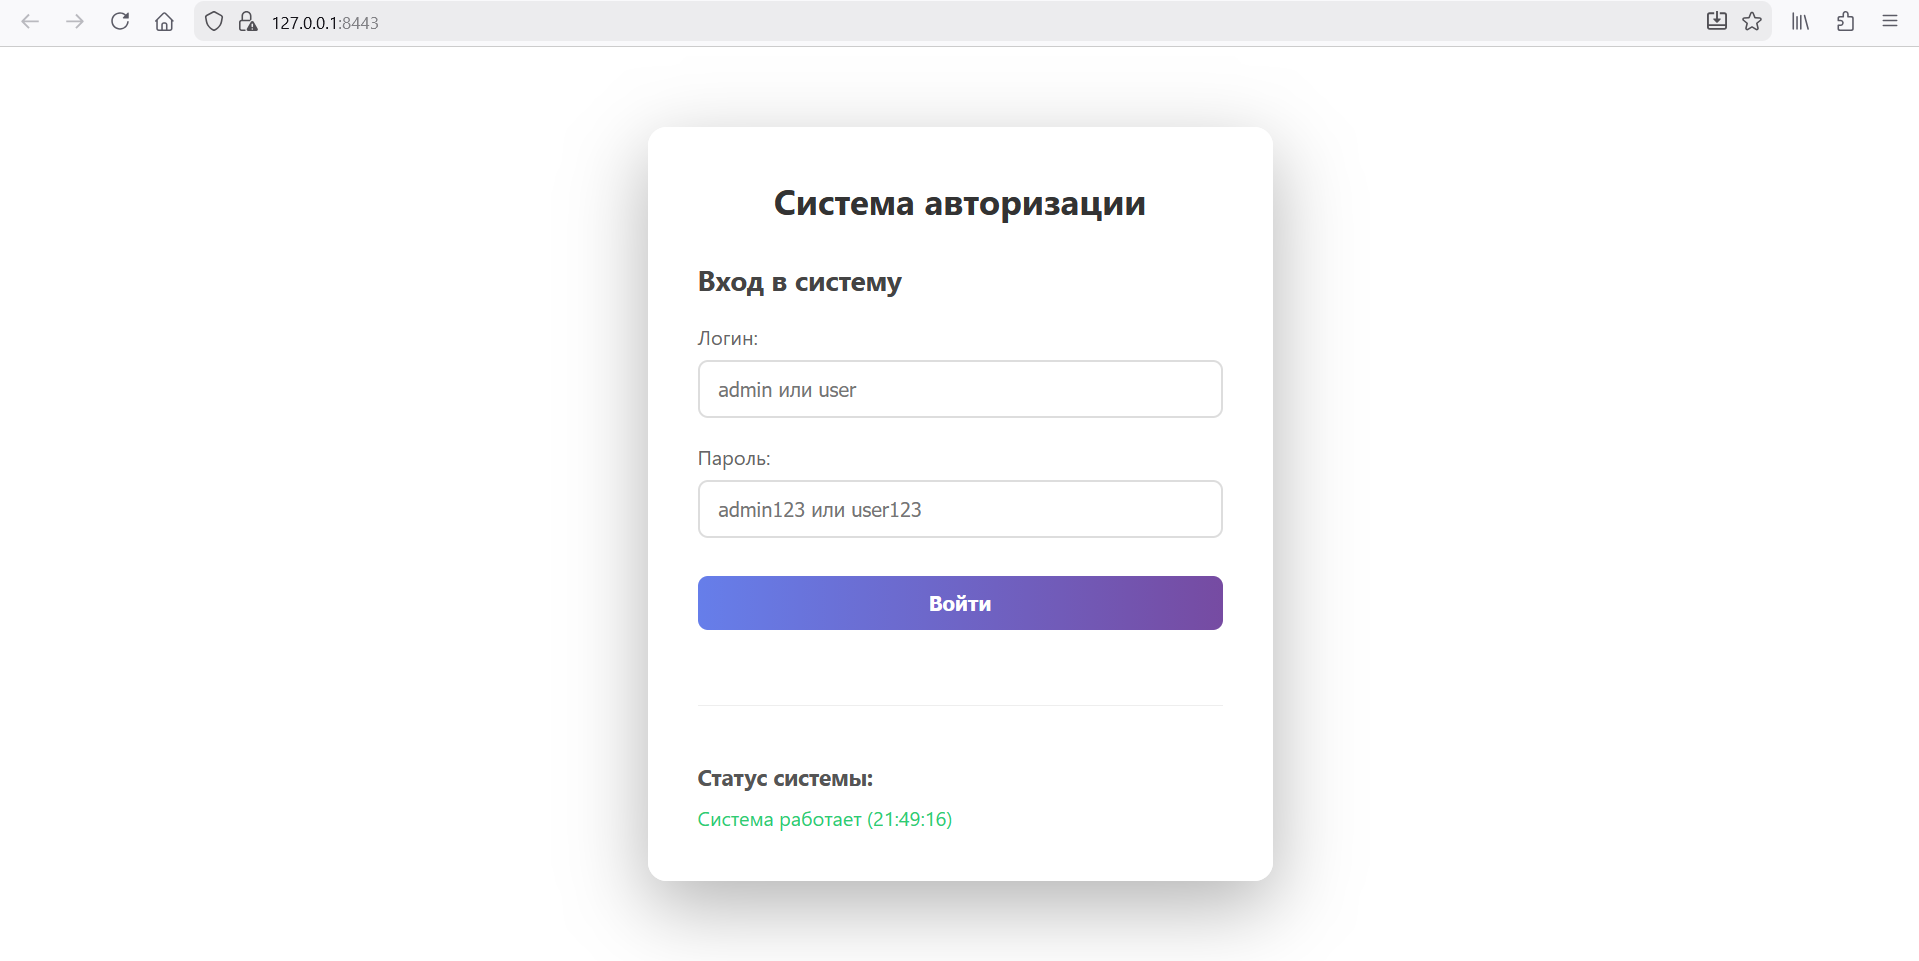
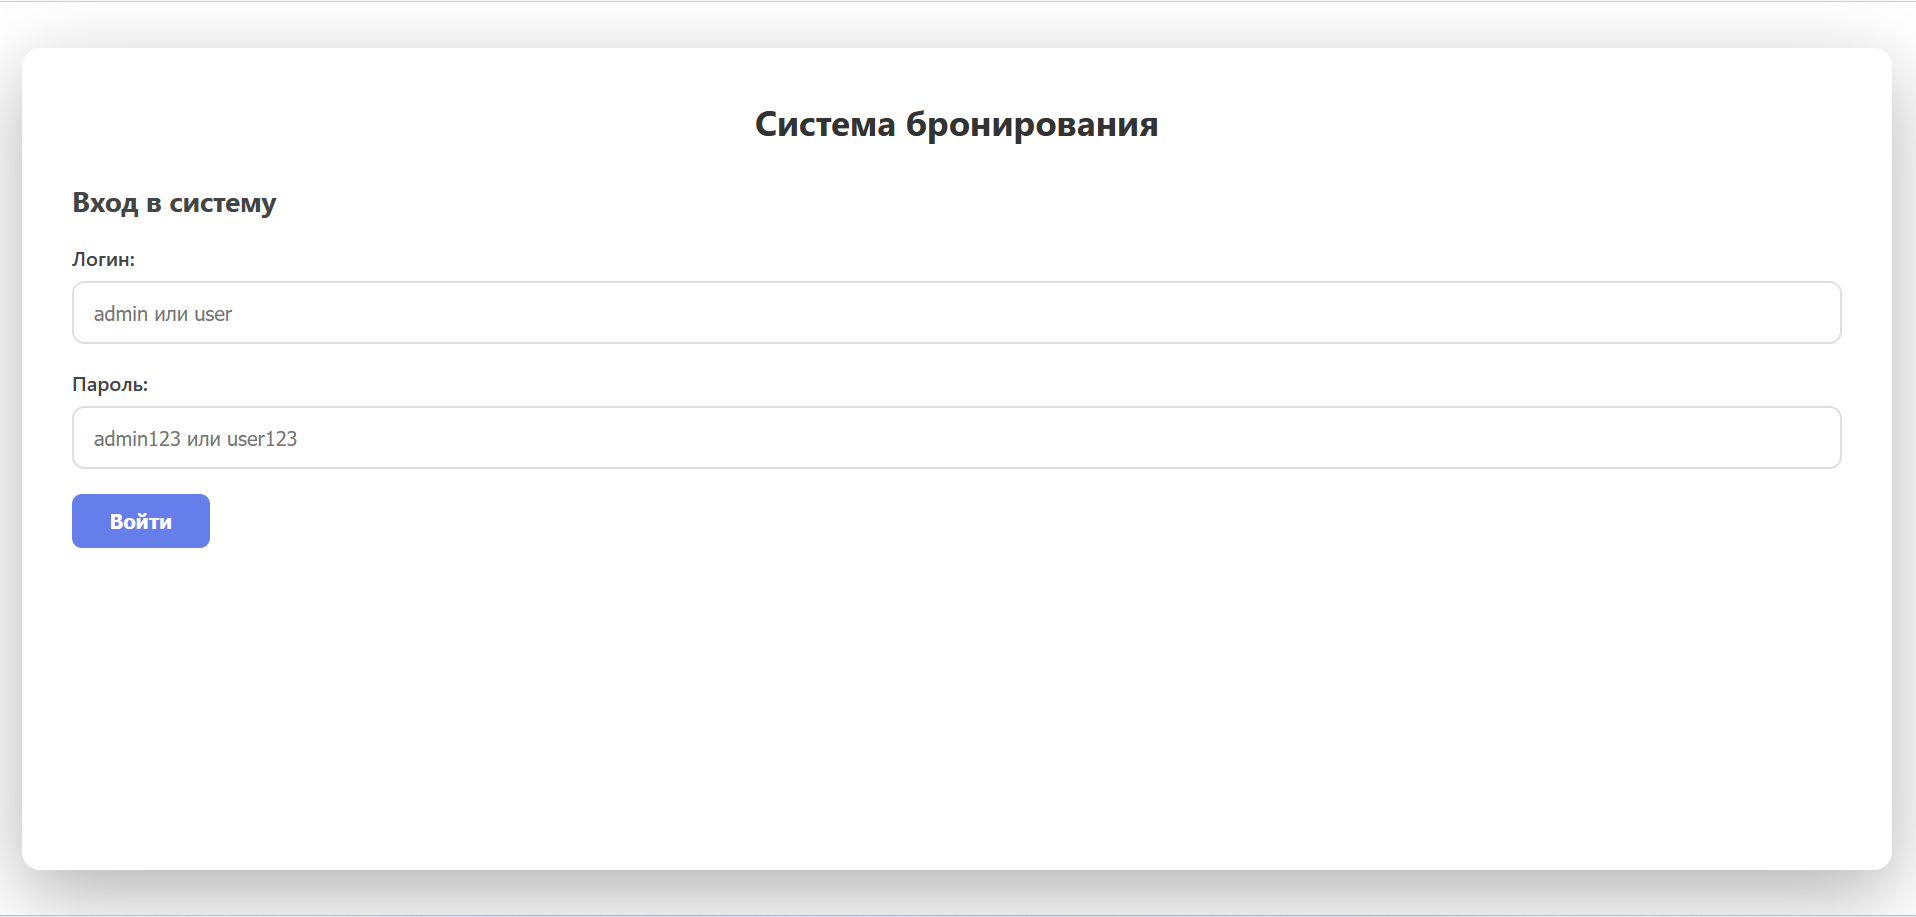
Правки фронтенд + readme

diff --git a/app/frontend/script-del-user.js b/app/frontend/script-del-user.js
@@ -26,10 +26,6 @@ async function delUser() {
 
         const username = document.getElementById('username').value.trim();
 
-        if (!confirm(`Вы уверены, что хотите удалить пользователя ${username}?\nЭто действие необратимо!`)) {
-            return;
-        }
-
         const response = await fetch(`/users/del-user?username=${username}`, {
             method: 'DELETE',
             headers: {

diff --git a/app/frontend/script-del-room.js b/app/frontend/script-del-room.js
@@ -31,10 +31,6 @@ async function delRoom() {
 
         const room_id = document.getElementById('room_id').value.trim();
 
-        if (!confirm(`Вы уверены, что хотите удалить комнату с ID ${room_id}?\nЭто действие необратимо!`)) {
-            return;
-        }
-
         const response = await fetch(`/rooms/del-room?room_id=${room_id}`, {
             method: 'DELETE',
             headers: {

diff --git a/app/services/auth_service.py b/app/services/auth_service.py
@@ -6,6 +6,7 @@ from models.user import UserResponse
 
[1 lines of base64/hex data omitted]
 ALGORITHM = "HS256"
+ACCESS_TOKEN_EXPIRE_MINUTES = 30
 
 class AuthService:
     def __init__(self, repo: IUserRepository):
@@ -21,7 +22,7 @@ class AuthService:
             full_name=user.full_name
         )
 
-    def create_token(self, username: str, expires_minutes: int = 30) -> str:
-        expire = datetime.now() + timedelta(minutes=expires_minutes)
+    def create_token(self, username: str) -> str:
+        expire = datetime.now() + timedelta(minutes=ACCESS_TOKEN_EXPIRE_MINUTES)
         to_encode = {"sub": username, "exp": expire}
         return jwt.encode(to_encode, SECRET_KEY, algorithm=ALGORITHM)

diff --git a/README.md b/README.md
@@ -1,6 +1,6 @@
 ## Cистема резервирования объектов на FastAPI
 
-На данный момент проект представляет собой полностью рабочий пример системы аутентификации с использованием FastAPI, JWT-токенов и самоподписанного SSL-сертификата.
+На данный момент проект представляет собой полностью рабочий пример системы резервирования с использованием FastAPI, JWT-токенов и самоподписанного SSL-сертификата. В данной системе реализована возможность резервирования объектов, поиска по тегам с помощь boolia, а также возможность мгновенного резрирования при поиске. Помио этого, реализована панель администратора для пользователя с ролью "administrator" с раширенными возможностями управления.
 
 
 Два хардкодных пользователя:
@@ -9,23 +9,33 @@
 
 Оссобенности:
 - Выдача JWT-токена сроком действия 30 минут
-- Одностраничный фронтенд с формой входа, профилем и индикатором статуса системы
 - Сервер работает только по HTTPS (порт 8443)
+- фронтенд на js, html, css
+- использование dsl из библиотеки boolia для поиска объектов по тегам
 
 ### Структура проекта
 ```
-textproject/
-├── main.py          # основной файл FastAPI
-├── auth.py          # логика JWT и аутентификации
-├── models.py        # Pydantic-модели и список пользователей
+app/
 ├── frontend/
-│   ├── index.html
-│   ├── style.css
-│   └── script.js
-├── resources/       # директория для размещения SSL-сертификатов 
+|
+├── models/                 # директория c моделями запросов и ответов API
+│   ├── room.py
+│   └── user.py
+├── repositories/           # директория с классами и интерфейсами для работы с БД
+│   ├── room_repository.py
+│   └── user_repository.py
+├── resources/              # директория для размещения SSL-сертификатов 
 │   ├── server.key
 │   └── server.crt
-└── static/          # автоматически монтируется из папки frontend
+├── routers/                # директория с реализауией API
+│   ├── auth_api.py
+│   ├── rooms_api.py
+│   └── users_api.py
+├── services/               # директория с сервисами приложенич
+│   └── auth_service.py
+├── dependecies.py          # функции, используемые в качестве зависимостей конечных точек
+├── main.py                 # основной файл FastAPI
+└── static/                 # мнимая директория, автоматически монтируется из папки frontend
 ```
 ### Инструкция по запуску
 
